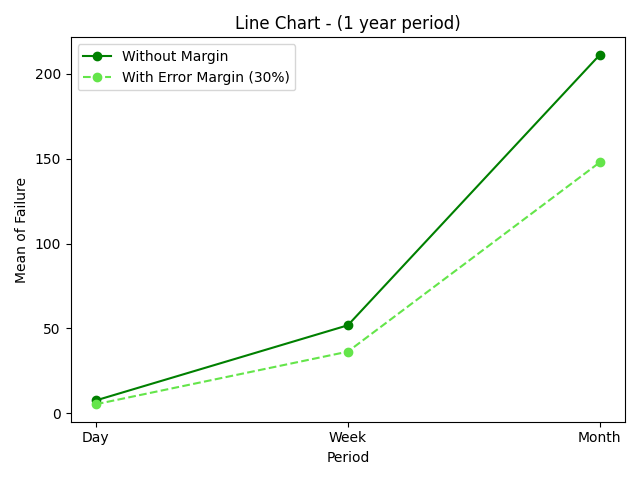
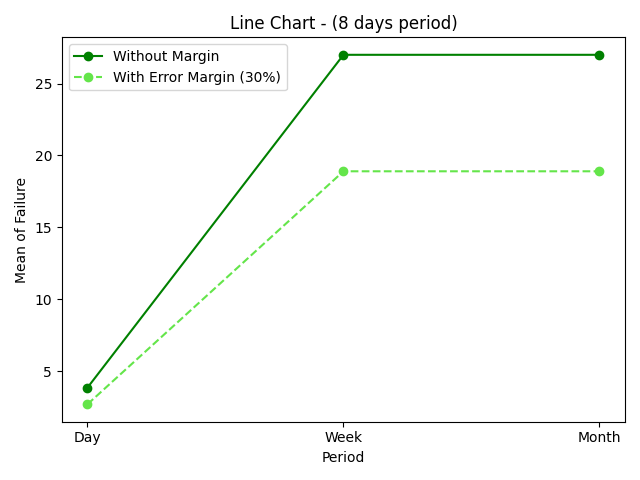
New range dates

diff --git a/create_dashboard.py b/create_dashboard.py
@@ -6,7 +6,7 @@ import os
 
 # Parâmetros
 csv_path = 'data/WF_failures_2025_06_17.csv'
-start_filter = pd.to_datetime('2024-06-17')
+start_filter = pd.to_datetime('2025-06-10')
 end_filter = pd.to_datetime('2025-06-17')
 margem_erro_percentual = 30
 
@@ -39,7 +39,7 @@ ax.bar([p + width for p in x], com_margem, width, color="#64E54A", label='With m
 
 ax.set_xlabel('Period')
 ax.set_ylabel('Mean of Failure')
-ax.set_title('Compare the averages - (1 year period)')
+ax.set_title('Compare the averages - (8 days period)')
 ax.set_xticks([p + width / 2 for p in x])
 ax.set_xticklabels(labels)
 ax.legend()
@@ -57,7 +57,7 @@ ax.plot(labels, com_margem, marker='o', linestyle='--', color="#64E54A", label='
 
 ax.set_xlabel('Period')
 ax.set_ylabel('Mean of Failure')
-ax.set_title('Line Chart - (1 year period)')
+ax.set_title('Line Chart - (8 days period)')
 ax.legend()
 
 plt.tight_layout()
@@ -84,7 +84,7 @@ if not top_10_df.empty:
         colors=colors_pizza
     )
 
-    ax.set_title('Top 10 Workflows with Most Failures - (1 year period)')
+    ax.set_title('Top 10 Workflows with Most Failures - (8 days period)')
     ax.axis('equal')  # Deixar a pizza circular
 
     output_path_pizza = os.path.join(output_dir, 'dashboard_pizza.png')
